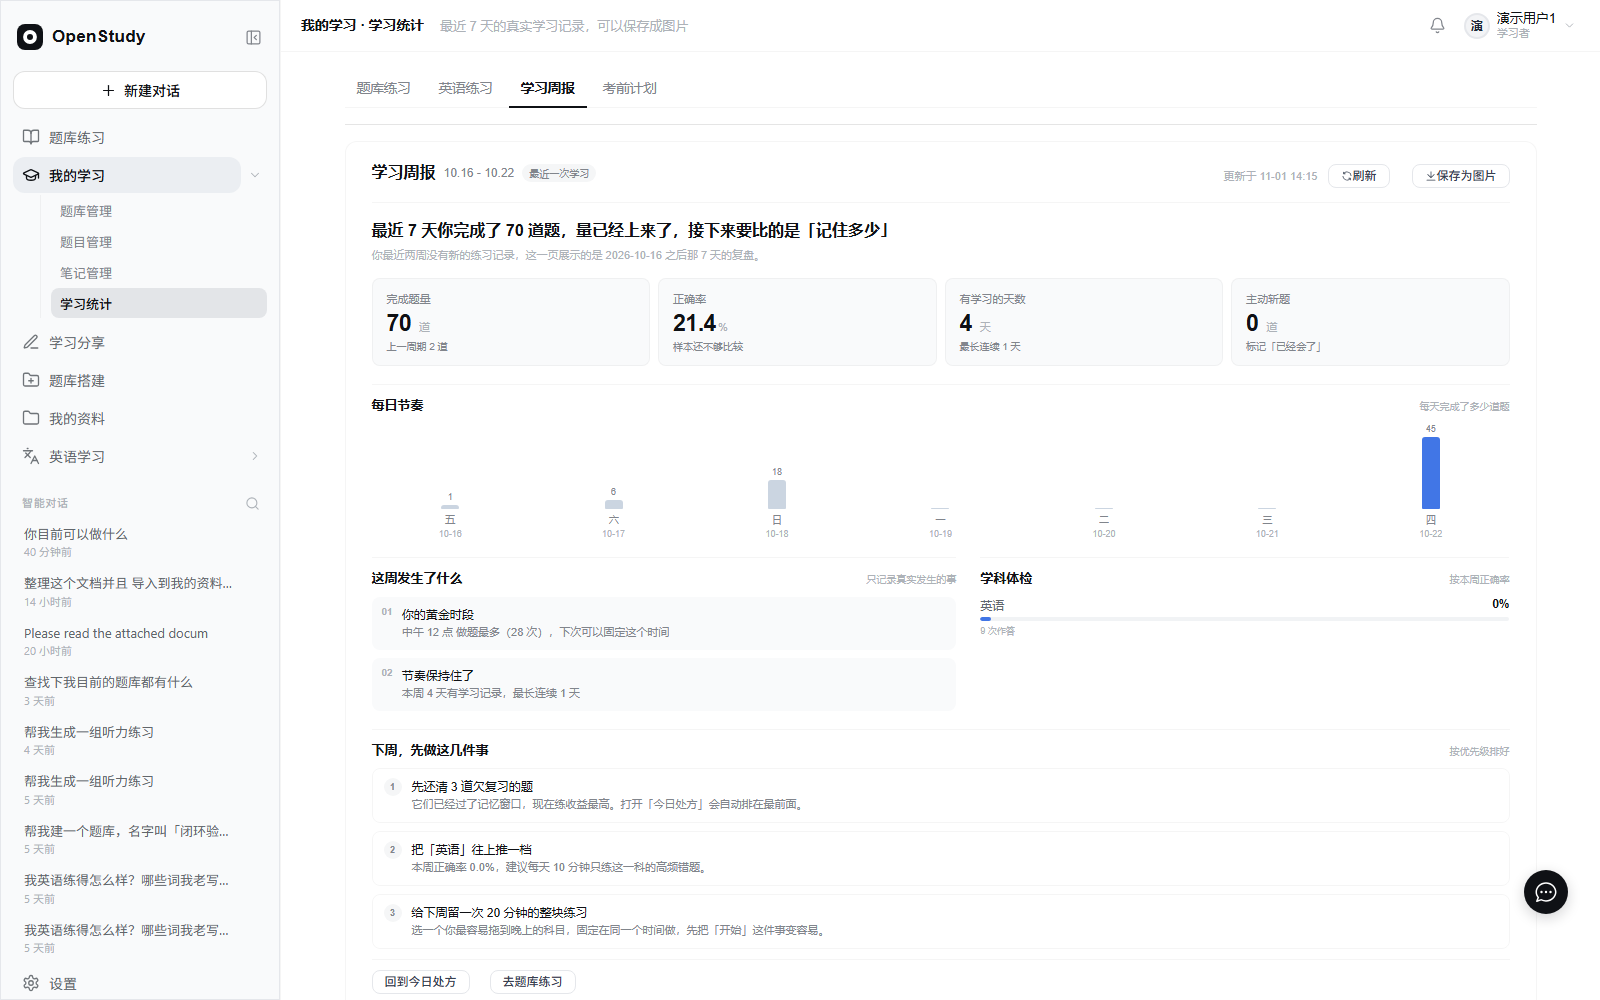
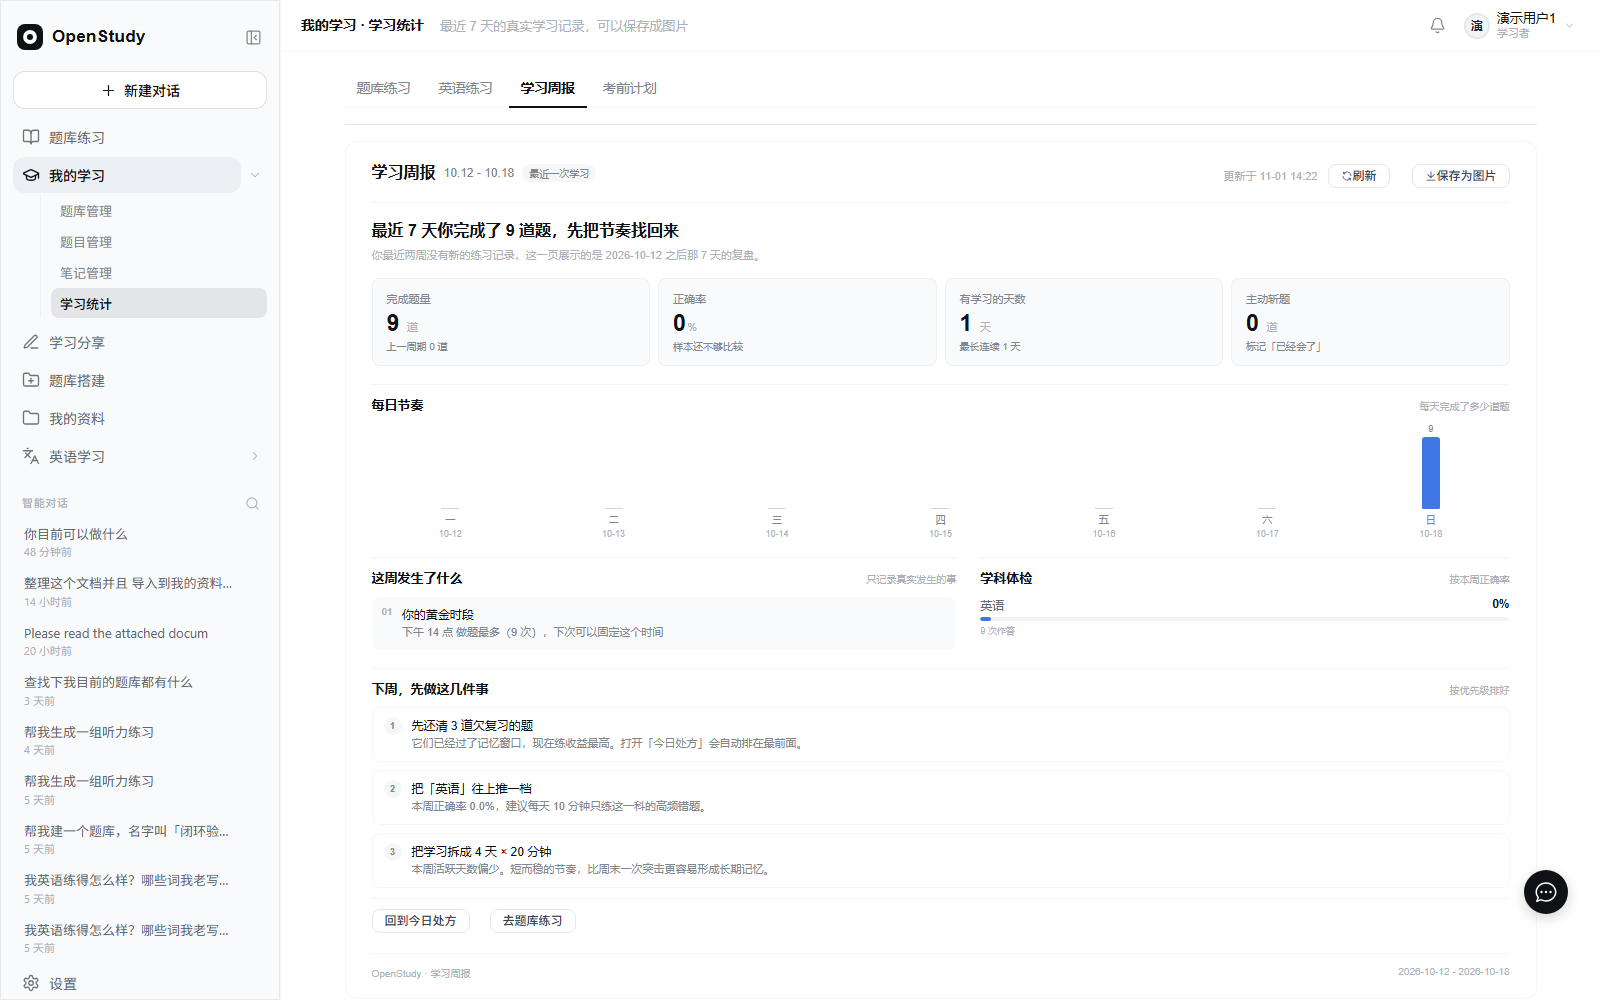
学习周报只统计可复盘题目，并补齐 tab 切换刷新

diff --git a/openstudy-vue3-ts/src/views/front/myQuestion/myStats/index.vue b/openstudy-vue3-ts/src/views/front/myQuestion/myStats/index.vue
@@ -425,6 +425,10 @@ function applyTabFromQuery() {
     } else if (t === 'weekly' || t === 'exam') {
         activeTab.value = t
         tabSeen[t] = true
+        nextTick(() => {
+            if (t === 'weekly') weeklyReportRef.value?.refresh?.()
+            else examPlanRef.value?.refreshProgress?.()
+        })
     }
     // 副标题跟着一起变，否则会显示题库那句说明
     syncTopbarSubtitle()

diff --git a/openstudy-fastapi/app/services/learning_report_service.py b/openstudy-fastapi/app/services/learning_report_service.py
@@ -22,6 +22,7 @@ from sqlalchemy.ext.asyncio import AsyncSession
 
 from app.models.question import (
     QuestionBank,
+    QuestionMain,
     UserPracticeLog,
     UserQuestionMarked,
 )
@@ -104,10 +105,16 @@ async def build_weekly_report(
 
     # 如果用户最近两周都没打开过，仍然给他看「最近一次学习的那 7 天」——
     # 周报的意义是复盘，而不是用「本周空白」惩罚一个暂时停下来的用户。
+    # 只统计题目仍存在的流水：题目被物理删除后的孤儿流水无法复盘，
+    # 也不该把「这周做了 70 题」说成真实可回看的练习量。
     latest = await db.scalar(
-        select(func.max(UserPracticeLog.create_time)).where(
-            UserPracticeLog.user_id == int(user_id)
+        select(func.max(UserPracticeLog.create_time))
+        .select_from(
+            UserPracticeLog.__table__.join(
+                QuestionMain.__table__, UserPracticeLog.question_id == QuestionMain.id
+            )
         )
+        .where(UserPracticeLog.user_id == int(user_id))
     )
     if latest is None:
         return _empty(moment)
@@ -125,6 +132,11 @@ async def build_weekly_report(
                 UserPracticeLog.is_correct,
                 UserPracticeLog.question_id,
                 UserPracticeLog.bank_id,
+            )
+            .select_from(
+                UserPracticeLog.__table__.join(
+                    QuestionMain.__table__, UserPracticeLog.question_id == QuestionMain.id
+                )
             )
             .where(
                 UserPracticeLog.user_id == int(user_id),
